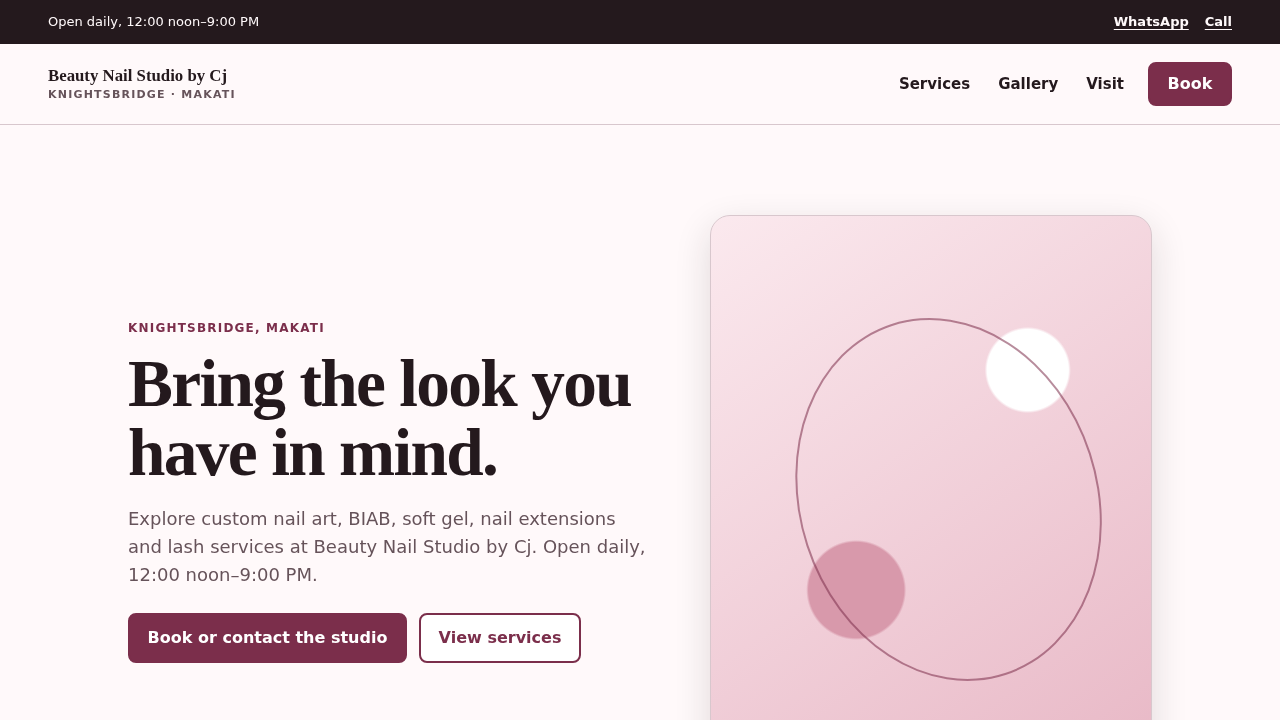
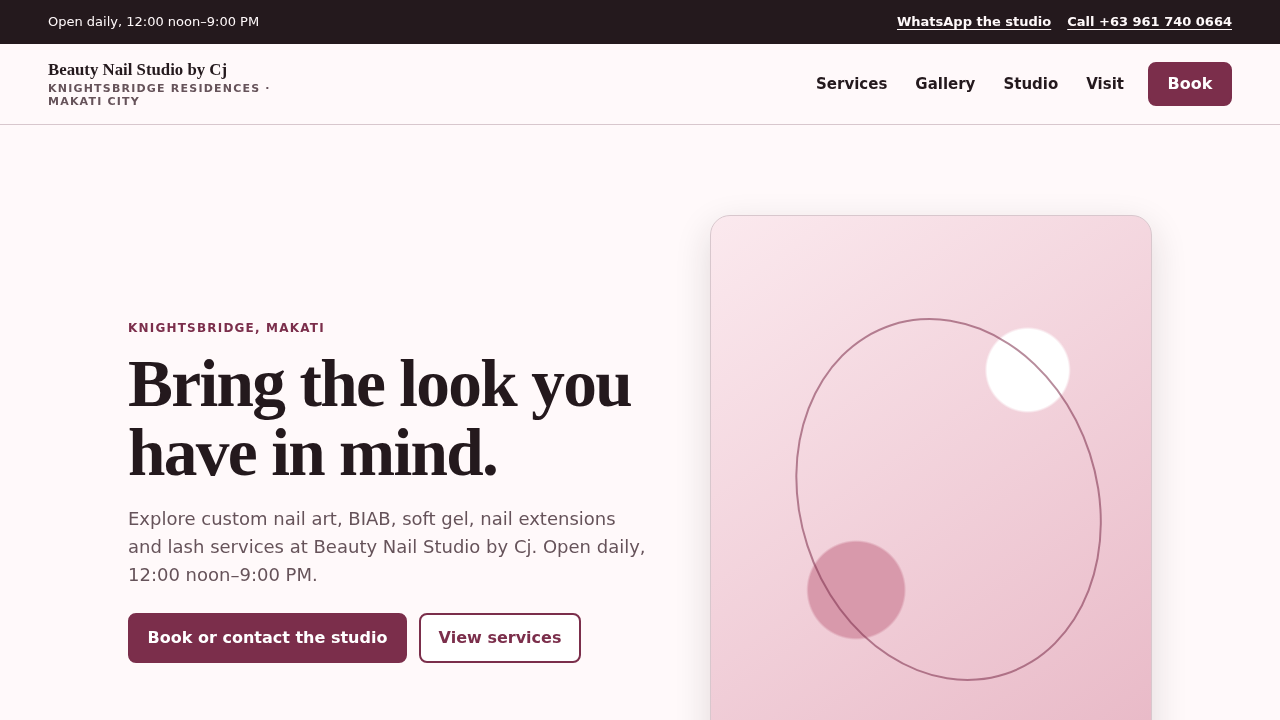
docs: record milestone 2 review fixes and PR #2
Document D-013 sitemap chrome, draft PR #2, and regenerated shell evidence after the review-fix pass.

Changed region(s): [[0.7188, 0.0, 0.9688, 0.0611], [0.0312, 0.0917, 0.1875, 0.1528], [0.625, 0.0917, 0.8438, 0.1222]]

diff --git a/docs/reviews/milestone-2.md b/docs/reviews/milestone-2.md
@@ -4,16 +4,29 @@ Date: 2026-08-17
 
 Branch: `codex/milestone-2-design-system`
 
+PR: [#2](https://github.com/pav4o71/cjnailstudio/pull/2) (draft)
+
 Base: merged Milestone 1 commit `8f06d44acbff79d2418200e4e64afa98c22e73ec`
 
 ## Scope
 
 - Approved design tokens and typography fallbacks.
-- Responsive header, primary navigation, native-dialog menu, footer and mobile booking actions.
+- Responsive header, primary navigation, native-dialog menu, footer and booking actions.
 - Reusable section intro, service card, status callout and consent-safe media fallback states.
 - Keyboard, target-size, route, contact-handoff, responsive and automated accessibility coverage.
 
-No provider, payment, upload, analytics or customer-media capability is activated.
+No provider, payment, upload, analytics or customer-media capability is activated. Milestone 3 page content was not started.
+
+## Review fixes
+
+- Site chrome consumes a single sitemap module (`src/content/navigation.ts`) so header, menu, footer and tests cannot drift from `docs/SITEMAP.md` (decision D-013). Unbuilt Milestone 3 routes may 404 honestly.
+- Persistent Book/WhatsApp action bar now uses the same `max-width: 64rem` range as the hamburger.
+- `html.no-js` keeps server-rendered primary nav and contact links available when JavaScript is disabled.
+- Menu trigger focus is restored only after dismiss (Escape/Close). Choosing a destination moves focus to `#main`.
+- `main` has a visible focus treatment for skip-to-content and post-navigation focus.
+- `/book` no longer uses a success “Walk-ins accepted” callout; copy follows ODR-003 and points to `/visit`.
+- Playwright menu Escape/focus, open-dialog axe and no-JS checks run on mobile and tablet. Target-size checks require width and height ≥ 44px. CI runs the full Playwright project set (mobile, tablet, desktop). Evidence screenshots write under `docs/screenshots/` locally and to the Playwright output directory in CI so the default tree stays clean.
+- Action-bar/header contact names state purpose (`WhatsApp the studio`). Media fallback eyebrow is a prop. Instagram URL is derived from `site.business.instagramHandle`. Location label is derived from the canonical Knightsbridge record (D-001). Narrow action stacking uses the approved `36rem` breakpoint instead of `22rem`.
 
 ## Validation
 
@@ -22,13 +35,15 @@ No provider, payment, upload, analytics or customer-media capability is activate
 | Prettier | Pass |
 | ESLint | Pass |
 | Strict TypeScript | Pass |
-| Vitest | 11 passed |
-| Next.js production build | Pass; 6 static application routes plus not-found generated |
-| Playwright | 25 passed, 2 intentional non-mobile skips |
-| axe serious/critical scan | No findings across 5 routes × 3 viewports |
-| Diff whitespace check | Pass |
+| Vitest | 14 passed |
+| Next.js production build | Pass (Playwright webServer) |
+| Playwright | 36 passed, 6 intentional skips |
+| axe serious/critical scan | No findings on 5 routes × 3 viewports, plus the open menu dialog on mobile and tablet |
+| GitHub Actions | Pending push to PR #2 |
 
-Playwright builds and runs the production server before exercising the site. The test suite verifies current-route semantics, minimum 44 px visible interactive targets, mobile dialog Escape behavior and focus return, primary navigation, manual booking contact paths, and the absence of serious or critical automated accessibility findings.
+Playwright builds and runs the production server before exercising the site. The suite verifies current-route semantics, 44×44 px visible interactive targets, mobile and tablet dialog Escape/focus behavior, post-navigation focus on `#main`, no-JS primary nav on small viewports, footer sitemap chrome, manual booking contact paths, and the absence of serious or critical automated accessibility findings.
+
+The 6 skips are: hamburger Escape, menu-to-main focus, open-dialog axe and no-JS nav on desktop (hamburger hidden), plus the 1024 px breakpoint probe on mobile and tablet.
 
 The project uses Next 16.3's documented compiler-API checker with TypeScript 5.9. This avoids an observed intermittent JSON-capture failure in the default experimental CLI checker without skipping or relaxing type checking.
 
@@ -37,9 +52,17 @@ The project uses Next 16.3's documented compiler-API checker with TypeScript 5.9
 - [Mobile home shell](../screenshots/milestone-2/mobile-home.png)
 - [Tablet home shell](../screenshots/milestone-2/tablet-home.png)
 - [Desktop home shell](../screenshots/milestone-2/desktop-home.png)
+- [Mobile open menu](../screenshots/milestone-2/mobile-menu.png)
+- [Tablet open menu](../screenshots/milestone-2/tablet-menu.png)
+- [Mobile book](../screenshots/milestone-2/mobile-book.png)
+- [Tablet book](../screenshots/milestone-2/tablet-book.png)
+- [Desktop book](../screenshots/milestone-2/desktop-book.png)
+- [Mobile gallery](../screenshots/milestone-2/mobile-gallery.png)
+- [Tablet gallery](../screenshots/milestone-2/tablet-gallery.png)
+- [Desktop gallery](../screenshots/milestone-2/desktop-gallery.png)
 
-The three production-rendered captures were visually inspected for hierarchy, wrapping, clipping, overflow, persistent-action placement and breakpoint behavior. No blocking visual defect was found.
+Local evidence screenshots are regenerated by `e2e/evidence.spec.ts`. In CI the same test writes to Playwright's output directory so the git tree stays clean.
 
 ## Review disposition
 
-Local review against merged Milestone 1 found no actionable defect. GitHub CI and external-review disposition must be appended after the milestone PR is opened.
+Important review findings from the first Milestone 2 pass are addressed on this branch. Remaining work for the parent: dispatch requesting-code-review on the new HEAD versus `origin/main`. Do not merge until that review and CI are green.

diff --git a/docs/PROJECT_STATUS.md b/docs/PROJECT_STATUS.md
@@ -8,7 +8,7 @@ Milestone 1 was merged through PR #1 at `8f06d44acbff79d2418200e4e64afa98c22e73e
 
 Local Milestone 1 evidence is green: formatting, lint, strict TypeScript, 6 unit tests, the Next.js production build, and 18 Playwright checks across mobile, tablet and desktop. The browser suite also found no serious or critical automated accessibility violations on the five implemented routes. GitHub Actions CI run #3 completed successfully. The requested external `@codex review` produced no findings because the repository's automated review bot is not enabled; the required local review against `main` found no actionable defects.
 
-Milestone 2 is implemented and locally validated on `codex/milestone-2-design-system`. It adds the responsive site shell, accessible native-dialog menu, mobile booking actions, approved design tokens, shared component states and generated visual evidence. Formatting, lint, strict TypeScript, 11 unit/component tests, the production build and 25 executed Playwright checks are green; the 2 reported skips are the intentionally mobile-only menu test on tablet and desktop. Automated accessibility found no serious or critical violations on any implemented route at any tested viewport.
+Milestone 2 is on draft PR [#2](https://github.com/pav4o71/cjnailstudio/pull/2) (`codex/milestone-2-design-system`). Review fixes aligned site chrome with the approved sitemap, restored the tablet Book CTA, kept no-JS navigation, and tightened focus, walk-in copy and CI viewport coverage. Local gates after the review fixes: Prettier, ESLint, TypeScript, 14 unit tests, production build, and 36 Playwright checks (6 intentional skips). Milestone 3 page content has not started.
 
 GitHub issue creation is currently blocked: the connected GitHub app returns HTTP 403 for Issues, and the local `gh` session is invalid. Git pushes work, and PRs can be managed through the signed-in browser fallback. Issue links remain pending until GitHub authorization is repaired; this does not relax the required review gates.
 
@@ -17,7 +17,7 @@ GitHub issue creation is currently blocked: the connected GitHub app returns HTT
 | Milestone | Issue | Branch | PR | Status |
 | --- | --- | --- | --- | --- |
 | 1 — Research, architecture, foundation and CI | Blocked by GitHub Issues permission | `codex/milestone-1-foundation` | [#1](https://github.com/pav4o71/cjnailstudio/pull/1) | Merged; CI green |
-| 2 — Design system, shell and components | Blocked by GitHub Issues permission | `codex/milestone-2-design-system` | Pending | Local gates green; review preparation |
+| 2 — Design system, shell and components | Blocked by GitHub Issues permission | `codex/milestone-2-design-system` | [#2](https://github.com/pav4o71/cjnailstudio/pull/2) (draft) | Review fixes on branch; CI after push |
 | 3 — Evidence-backed pages and content | Blocked by GitHub Issues permission | `codex/milestone-3-pages-content` | Pending | Not started |
 | 4 — Booking-first UX and adapter | Blocked by GitHub Issues permission | `codex/milestone-4-booking` | Pending | Not started |
 | 5 — SEO, analytics, accessibility, privacy and security | Blocked by GitHub Issues permission | `codex/milestone-5-quality` | Pending | Not started |

diff --git a/docs/CHANGELOG.md b/docs/CHANGELOG.md
@@ -18,12 +18,18 @@ All notable project changes are recorded here. Milestone merge commits and tags 
 - Reusable section-intro, service-card, status-callout and consent-safe media-fallback components.
 - Regenerable mobile, tablet and desktop Milestone 2 screenshots from the production server.
 
+### Changed
+
+- Header, menu, footer and action bar now follow the approved compact sitemap, including honest links to unbuilt Milestone 3 routes.
+- Book/WhatsApp action bar is shown for the same `64rem` range as the hamburger so tablet does not lose a persistent Book CTA.
+- `/book` walk-in copy uses an info callout: walk-ins are welcome, availability is not guaranteed, and visit details live on `/visit`.
+
 ### Validated
 
 - Formatting, lint, strict type checking and production build pass.
-- 11 unit and component tests pass.
-- 25 responsive Playwright checks pass across mobile, tablet and desktop; 2 intentional non-mobile skips are reported separately. The suite includes serious/critical axe checks on every implemented route.
-- GitHub Actions CI run #3 passes on merged PR #1; the Milestone 1 local review against `main` has no actionable findings.
+- 14 unit and component tests pass.
+- 36 Playwright checks pass across mobile, tablet and desktop; 6 intentional skips are the hamburger/no-JS tests on desktop and the 64rem breakpoint probe on mobile/tablet. The suite includes serious/critical axe checks on implemented routes and on the open mobile/tablet menu.
+- GitHub Actions CI run #3 passes on merged PR #1; Milestone 2 CI on PR #2 is recorded after push.
 
 ### Security
 

diff --git a/DECISIONS.md b/DECISIONS.md
@@ -16,5 +16,6 @@ Status: ACTIVE
 | D-010 | Approved media safety | Publish no retained social asset by default | Manifest permits planning use only; consent not documented | Gallery, hero, Studio, Lashes |
 | D-011 | Approved privacy | Phase 0 collects no first-party booking PII; analytics is no-op | Data minimization and missing provider/legal authority | Forms, storage, telemetry |
 | D-012 | Approved integration boundary | Payments, notifications and uploads remain separate disabled capabilities | Owner inputs, credentials and security/legal gates are missing | Future ports/adapters |
+| D-013 | Approved IA | Site chrome (header, mobile menu, footer and action bar) follows the approved compact sitemap in `docs/SITEMAP.md`, including links to Milestone 3 destinations that may still be honest 404s | Prevents navigation drift; Milestone 2 owns chrome, Milestone 3 owns page content | Header, menu, footer, tests |
 
 Pending decisions are never represented as final configuration. Any change to a shared decision requires a new row, rationale and affected acceptance-test update.
